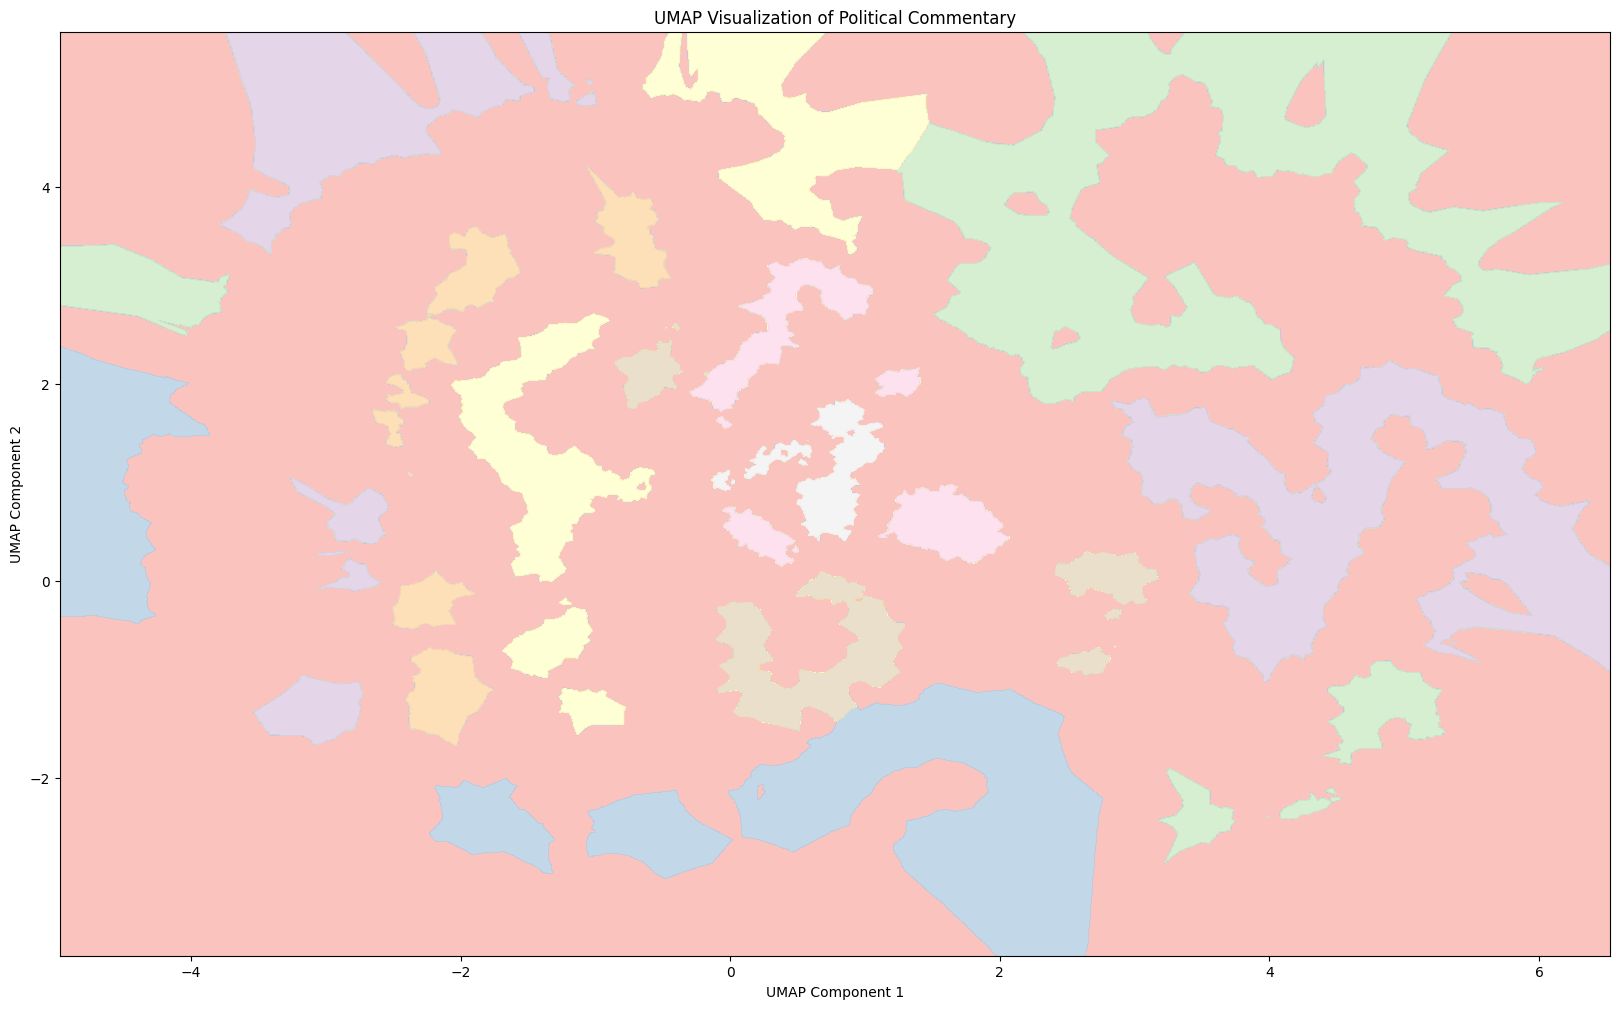
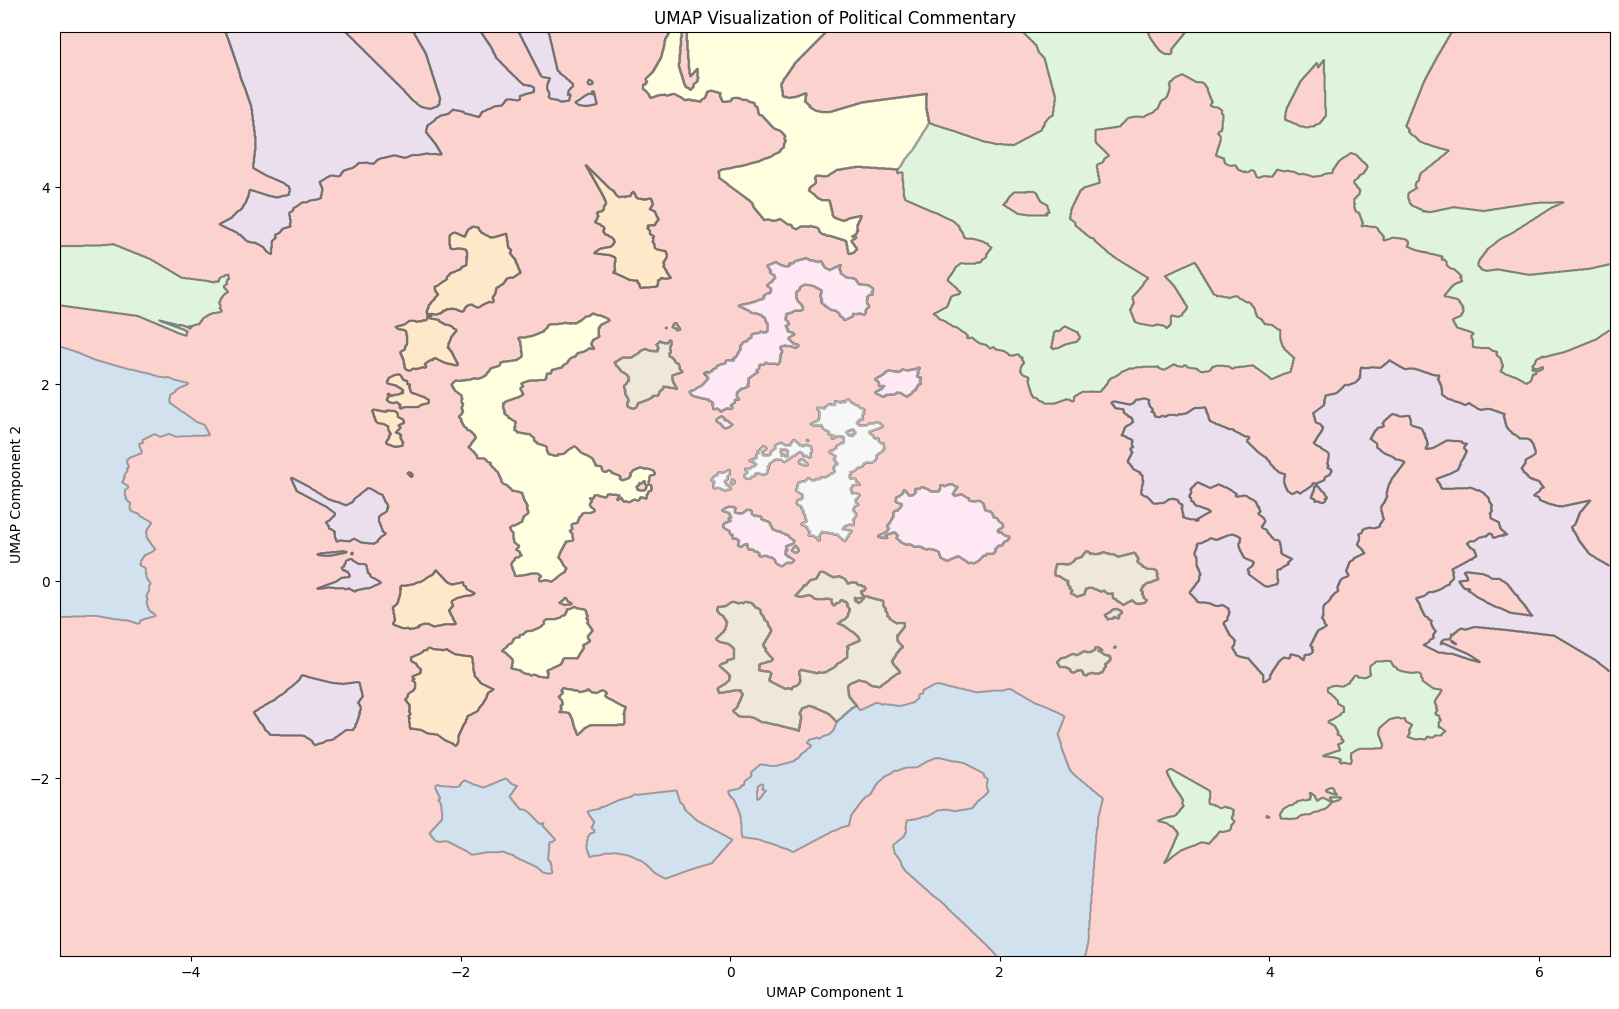
Clusters labelled
Also added: Minor content warning.

diff --git a/political_yt.html b/political_yt.html
@@ -209,6 +209,15 @@
 <div class="w3-content w3-padding-large w3-margin-top">
 
   <!-- Title -->
+
+  <div class="w3-panel w3-pale-yellow w3-display-container w3-border">
+    <h4>Be aware!</h4>
+    <p>Later sections of this page contain flickering images. 
+    However, the flickering rate should not exceed 1 Hz.</p>
+    <span onclick="this.parentElement.style.display='none'"
+    class="w3-button w3-large w3-display-bottomright">&times;</span>
+  </div>
+
   <h1  id="data">Introduction</h1>
     
     <p>
@@ -789,6 +798,7 @@ This is substantially more granular than the five clusters produced by the Kmean
   That said, these boundaries are artifically constructed by approximation. 
   So they can be fairly rough.
   They rely on the spatial prediction of a supervised K-Nearest Neighbors model fed on the cluster labels. 
+  It is thus mostly based on the cluster label of the nearest points across space, which includes noise to provide the seperation.
   Further analysis will still rely on the original cluster labels and not these boundaries as the latter is solely meant for visualisation.
 </p>
 </div>
@@ -800,9 +810,30 @@ This is substantially more granular than the five clusters produced by the Kmean
 </center>
 <div class="w3-content w3-padding-large w3-margin-top">
 <p>
+<!-- NOTE: add labels to last two images in 2nd cycle-->
+Each cluster represents a group of similar content.
+Now the questions is: What characteristics distinguishes each cluster?
+In extension of the prior visual analysis, I remain interested in how the clusters are distributed by partisanship as well as time.
+In this regard, I will be moving away from the UMAP projection and instead rely on cluster labels. 
+To help with this transition, I will leave you with this plot, where the clusters are labelled accordingly through C1 to C31.
+This should provide a frame of reference. 
 
 </p>
 </div>
+
+<center>
+  <div >
+    <img src= "images/political_yt/UMAP_hdbscan_mcs 40_cmap Dark2_v2_w_labels_Political Commentary.png"; max-width="100%";class="center">
+    
+</div>
+</center>
+
+<div class="w3-content w3-padding-large w3-margin-top">
+  <p>
+
+  </p>
+</div>
+
 
 <div class="w3-content w3-padding-large w3-margin-top">
   <h2>Validation</h2>
